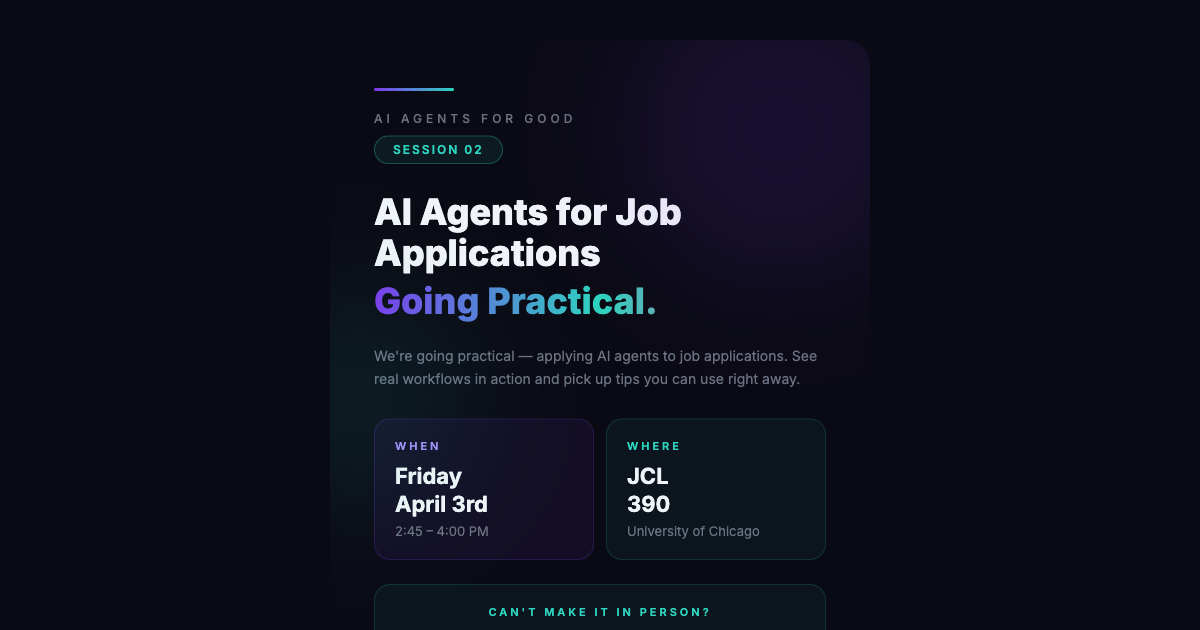
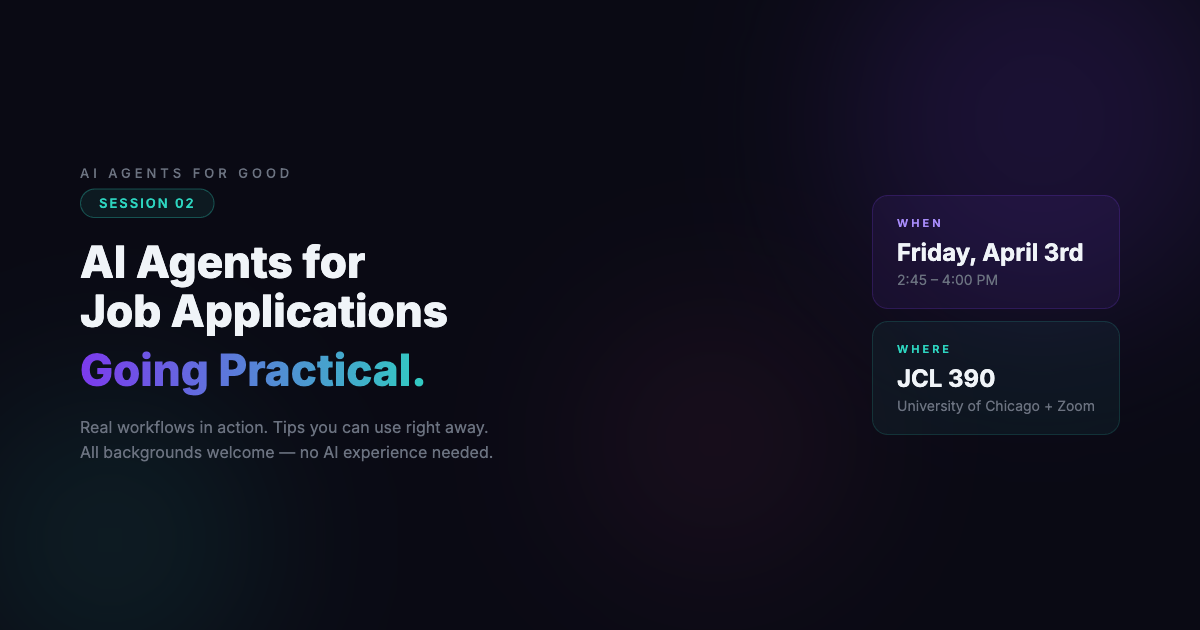
Replace OG image with purpose-built 1200x630 card for better previews
The previous OG image was a full-page screenshot with too much empty
space, making WhatsApp previews look small. New image fills the frame
with session info, date, location, and gradient text.

diff --git a/sessions/02/og-card.html b/sessions/02/og-card.html
@@ -1,0 +1,59 @@
+<!DOCTYPE html>
+<html lang="en">
+<head>
+<meta charset="UTF-8">
+<meta name="viewport" content="width=1200, height=630">
+<link href="https://fonts.googleapis.com/css2?family=Inter:wght@400;500;600;700;800&display=swap" rel="stylesheet">
+<style>
+*{margin:0;padding:0;box-sizing:border-box}
+html,body{width:1200px;height:630px;overflow:hidden}
+body{background:#0a0a14;font-family:Inter,system-ui,sans-serif;display:flex;align-items:center;justify-content:center;position:relative}
+.orb{position:absolute;border-radius:50%;filter:blur(80px);pointer-events:none}
+.orb1{width:400px;height:400px;background:#7c3aed;opacity:.15;top:-80px;right:-40px}
+.orb2{width:300px;height:300px;background:#2dd4bf;opacity:.1;bottom:-60px;left:-40px}
+.orb3{width:250px;height:250px;background:#ec4899;opacity:.08;top:50%;right:30%}
+.content{position:relative;z-index:1;display:flex;align-items:center;gap:60px;padding:0 80px;width:100%}
+.left{flex:1}
+.right{display:flex;flex-direction:column;gap:12px;min-width:240px}
+.group{font-size:13px;font-weight:500;color:#6b7280;letter-spacing:4px;margin-bottom:8px}
+.pill{display:inline-block;padding:6px 18px;border-radius:20px;font-size:13px;font-weight:600;color:#2dd4bf;letter-spacing:2px;border:1px solid rgba(45,212,191,.3);background:rgba(45,212,191,.08);margin-bottom:20px}
+.title{font-size:44px;font-weight:800;color:#f0f4f8;line-height:1.1;margin-bottom:8px}
+.gradient{font-size:44px;font-weight:800;background:linear-gradient(90deg,#7c3aed,#2dd4bf,#ec4899);-webkit-background-clip:text;-webkit-text-fill-color:transparent;background-clip:text;margin-bottom:18px}
+.sub{font-size:16px;color:#6b7280;line-height:1.6}
+.info-card{padding:20px 24px;border-radius:16px}
+.when-card{background:rgba(124,58,237,.08);border:1px solid rgba(124,58,237,.2)}
+.where-card{background:rgba(45,212,191,.06);border:1px solid rgba(45,212,191,.15)}
+.info-label{font-size:11px;font-weight:600;letter-spacing:3px;margin-bottom:8px}
+.when-card .info-label{color:#a78bfa}
+.where-card .info-label{color:#2dd4bf}
+.info-main{font-size:24px;font-weight:700;color:#f0f4f8;line-height:1.25;margin-bottom:4px}
+.info-sub{font-size:14px;color:#6b7280}
+</style>
+</head>
+<body>
+<div class="orb orb1"></div>
+<div class="orb orb2"></div>
+<div class="orb orb3"></div>
+<div class="content">
+  <div class="left">
+    <div class="group">AI AGENTS FOR GOOD</div>
+    <div class="pill">SESSION 02</div>
+    <div class="title">AI Agents for<br>Job Applications</div>
+    <div class="gradient">Going Practical.</div>
+    <div class="sub">Real workflows in action. Tips you can use right away.<br>All backgrounds welcome — no AI experience needed.</div>
+  </div>
+  <div class="right">
+    <div class="info-card when-card">
+      <div class="info-label">WHEN</div>
+      <div class="info-main">Friday, April 3rd</div>
+      <div class="info-sub">2:45 – 4:00 PM</div>
+    </div>
+    <div class="info-card where-card">
+      <div class="info-label">WHERE</div>
+      <div class="info-main">JCL 390</div>
+      <div class="info-sub">University of Chicago + Zoom</div>
+    </div>
+  </div>
+</div>
+</body>
+</html>
